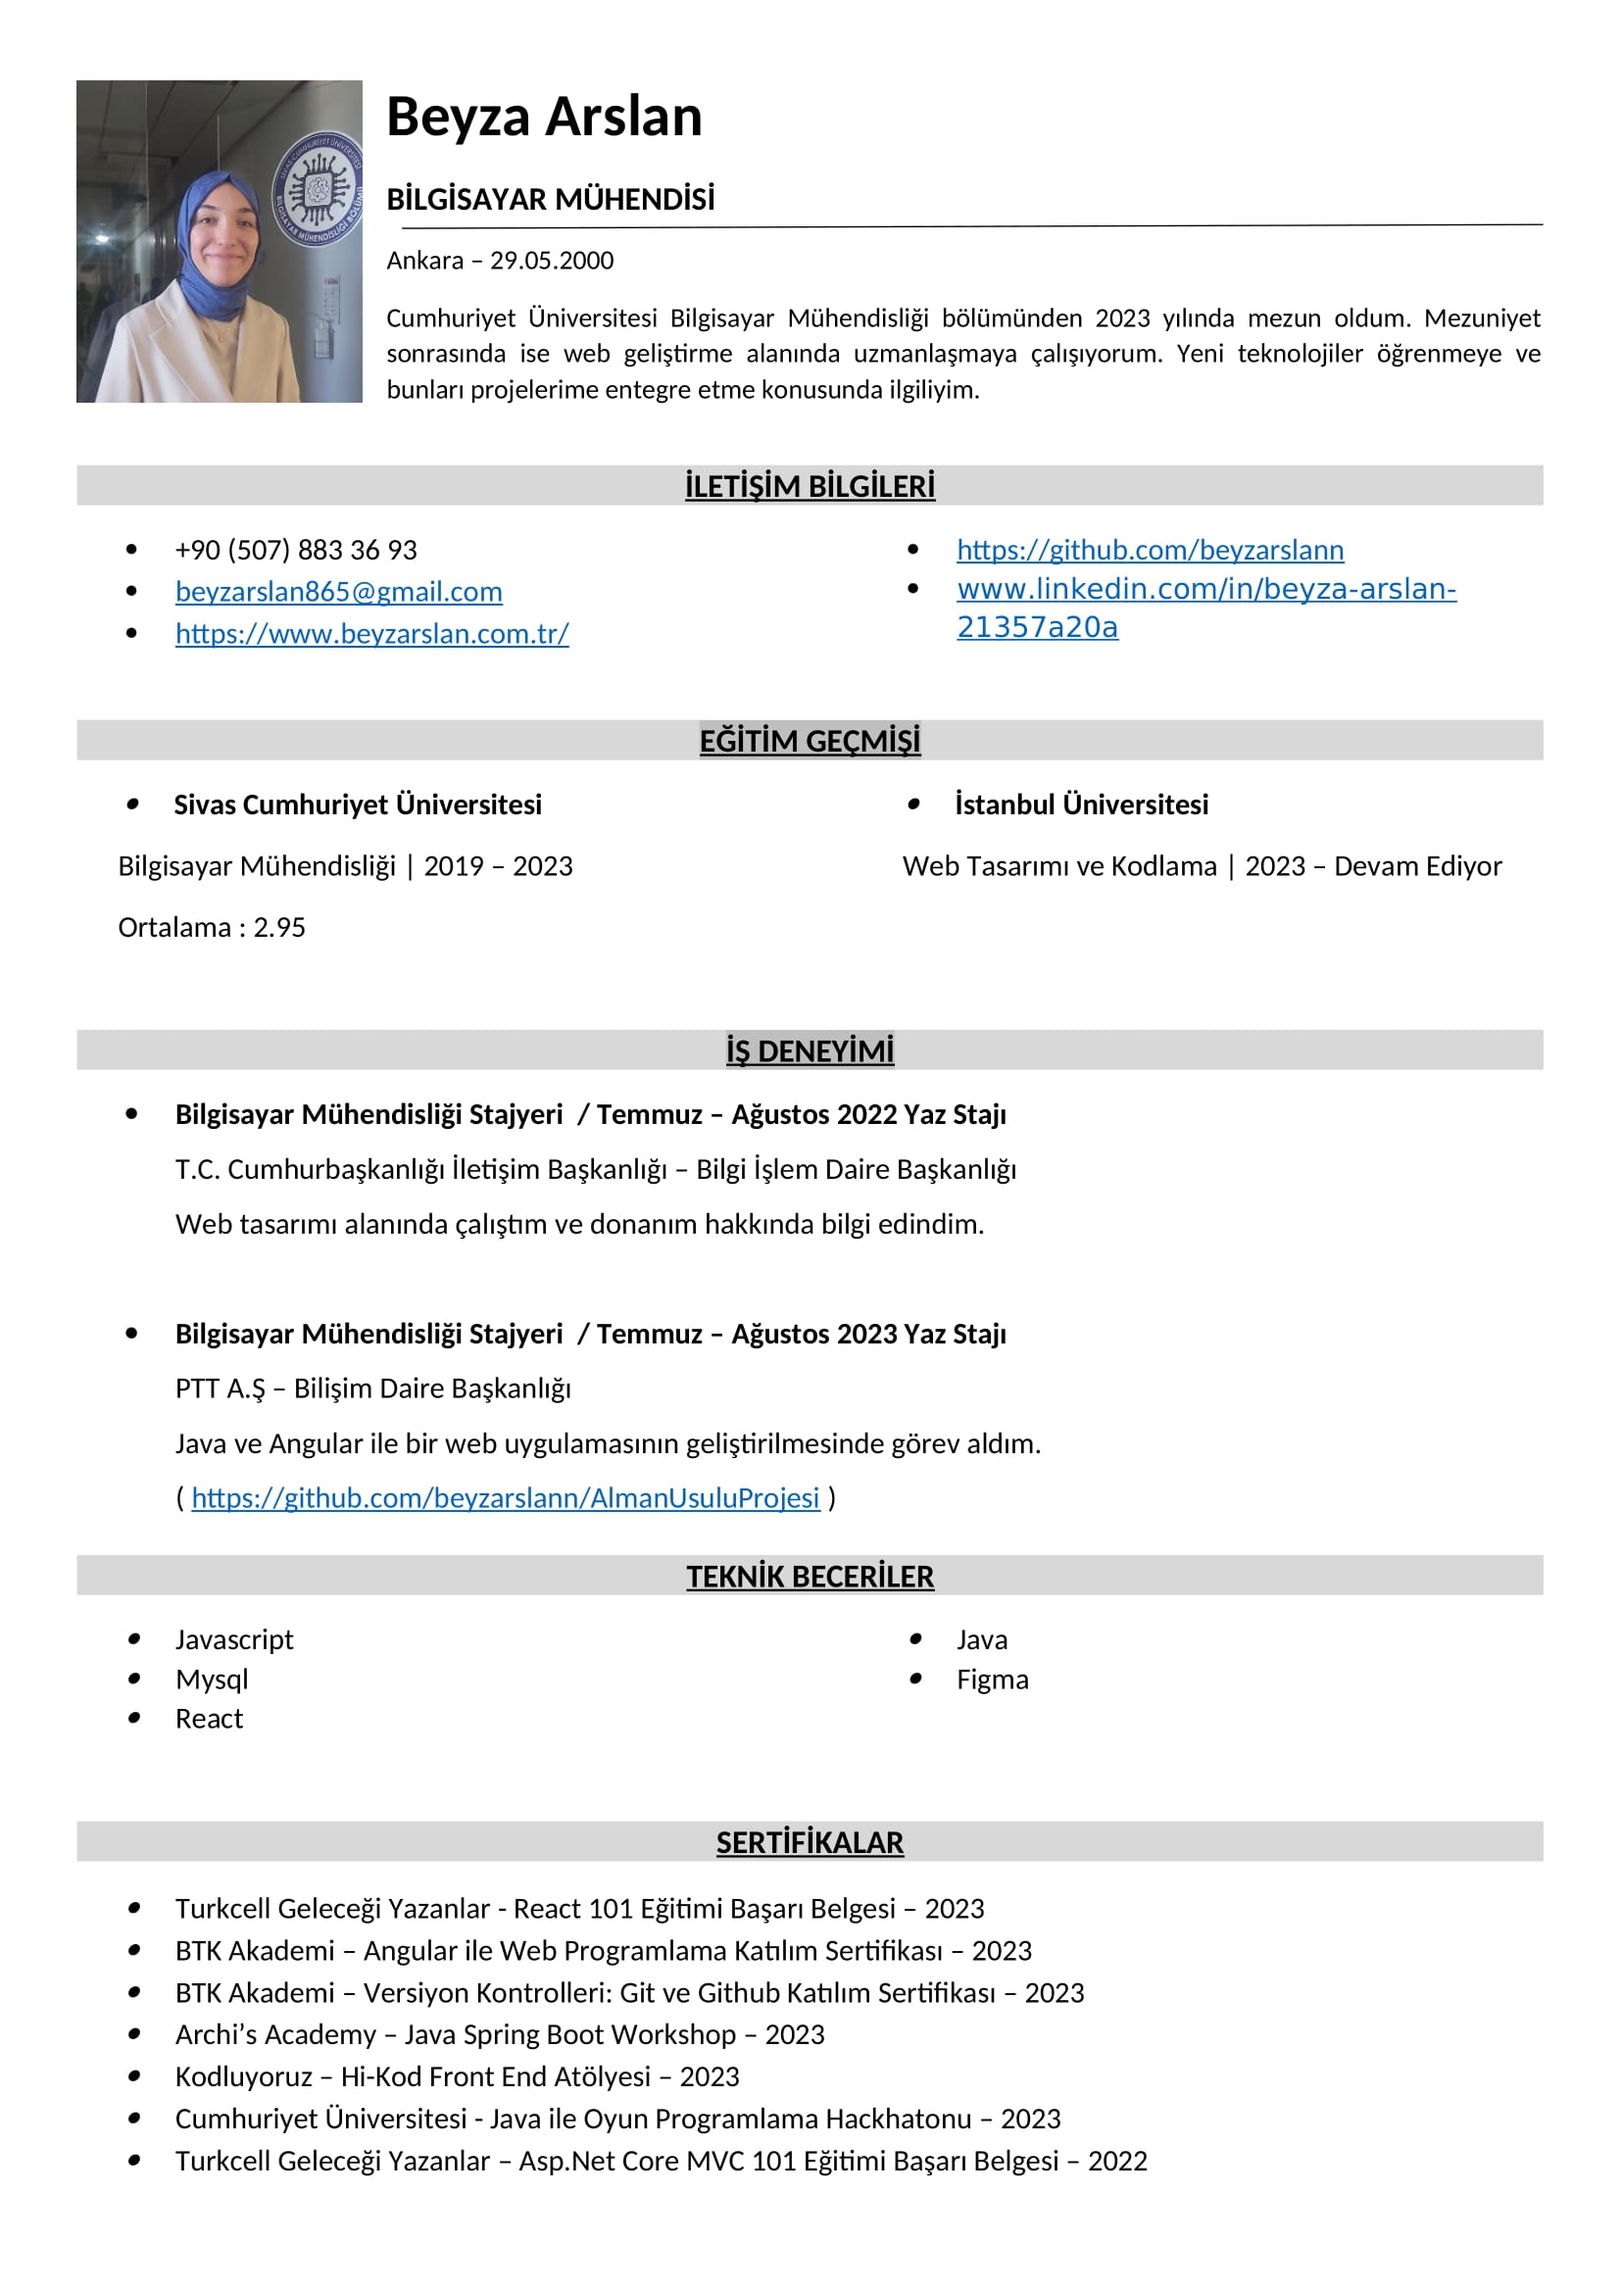
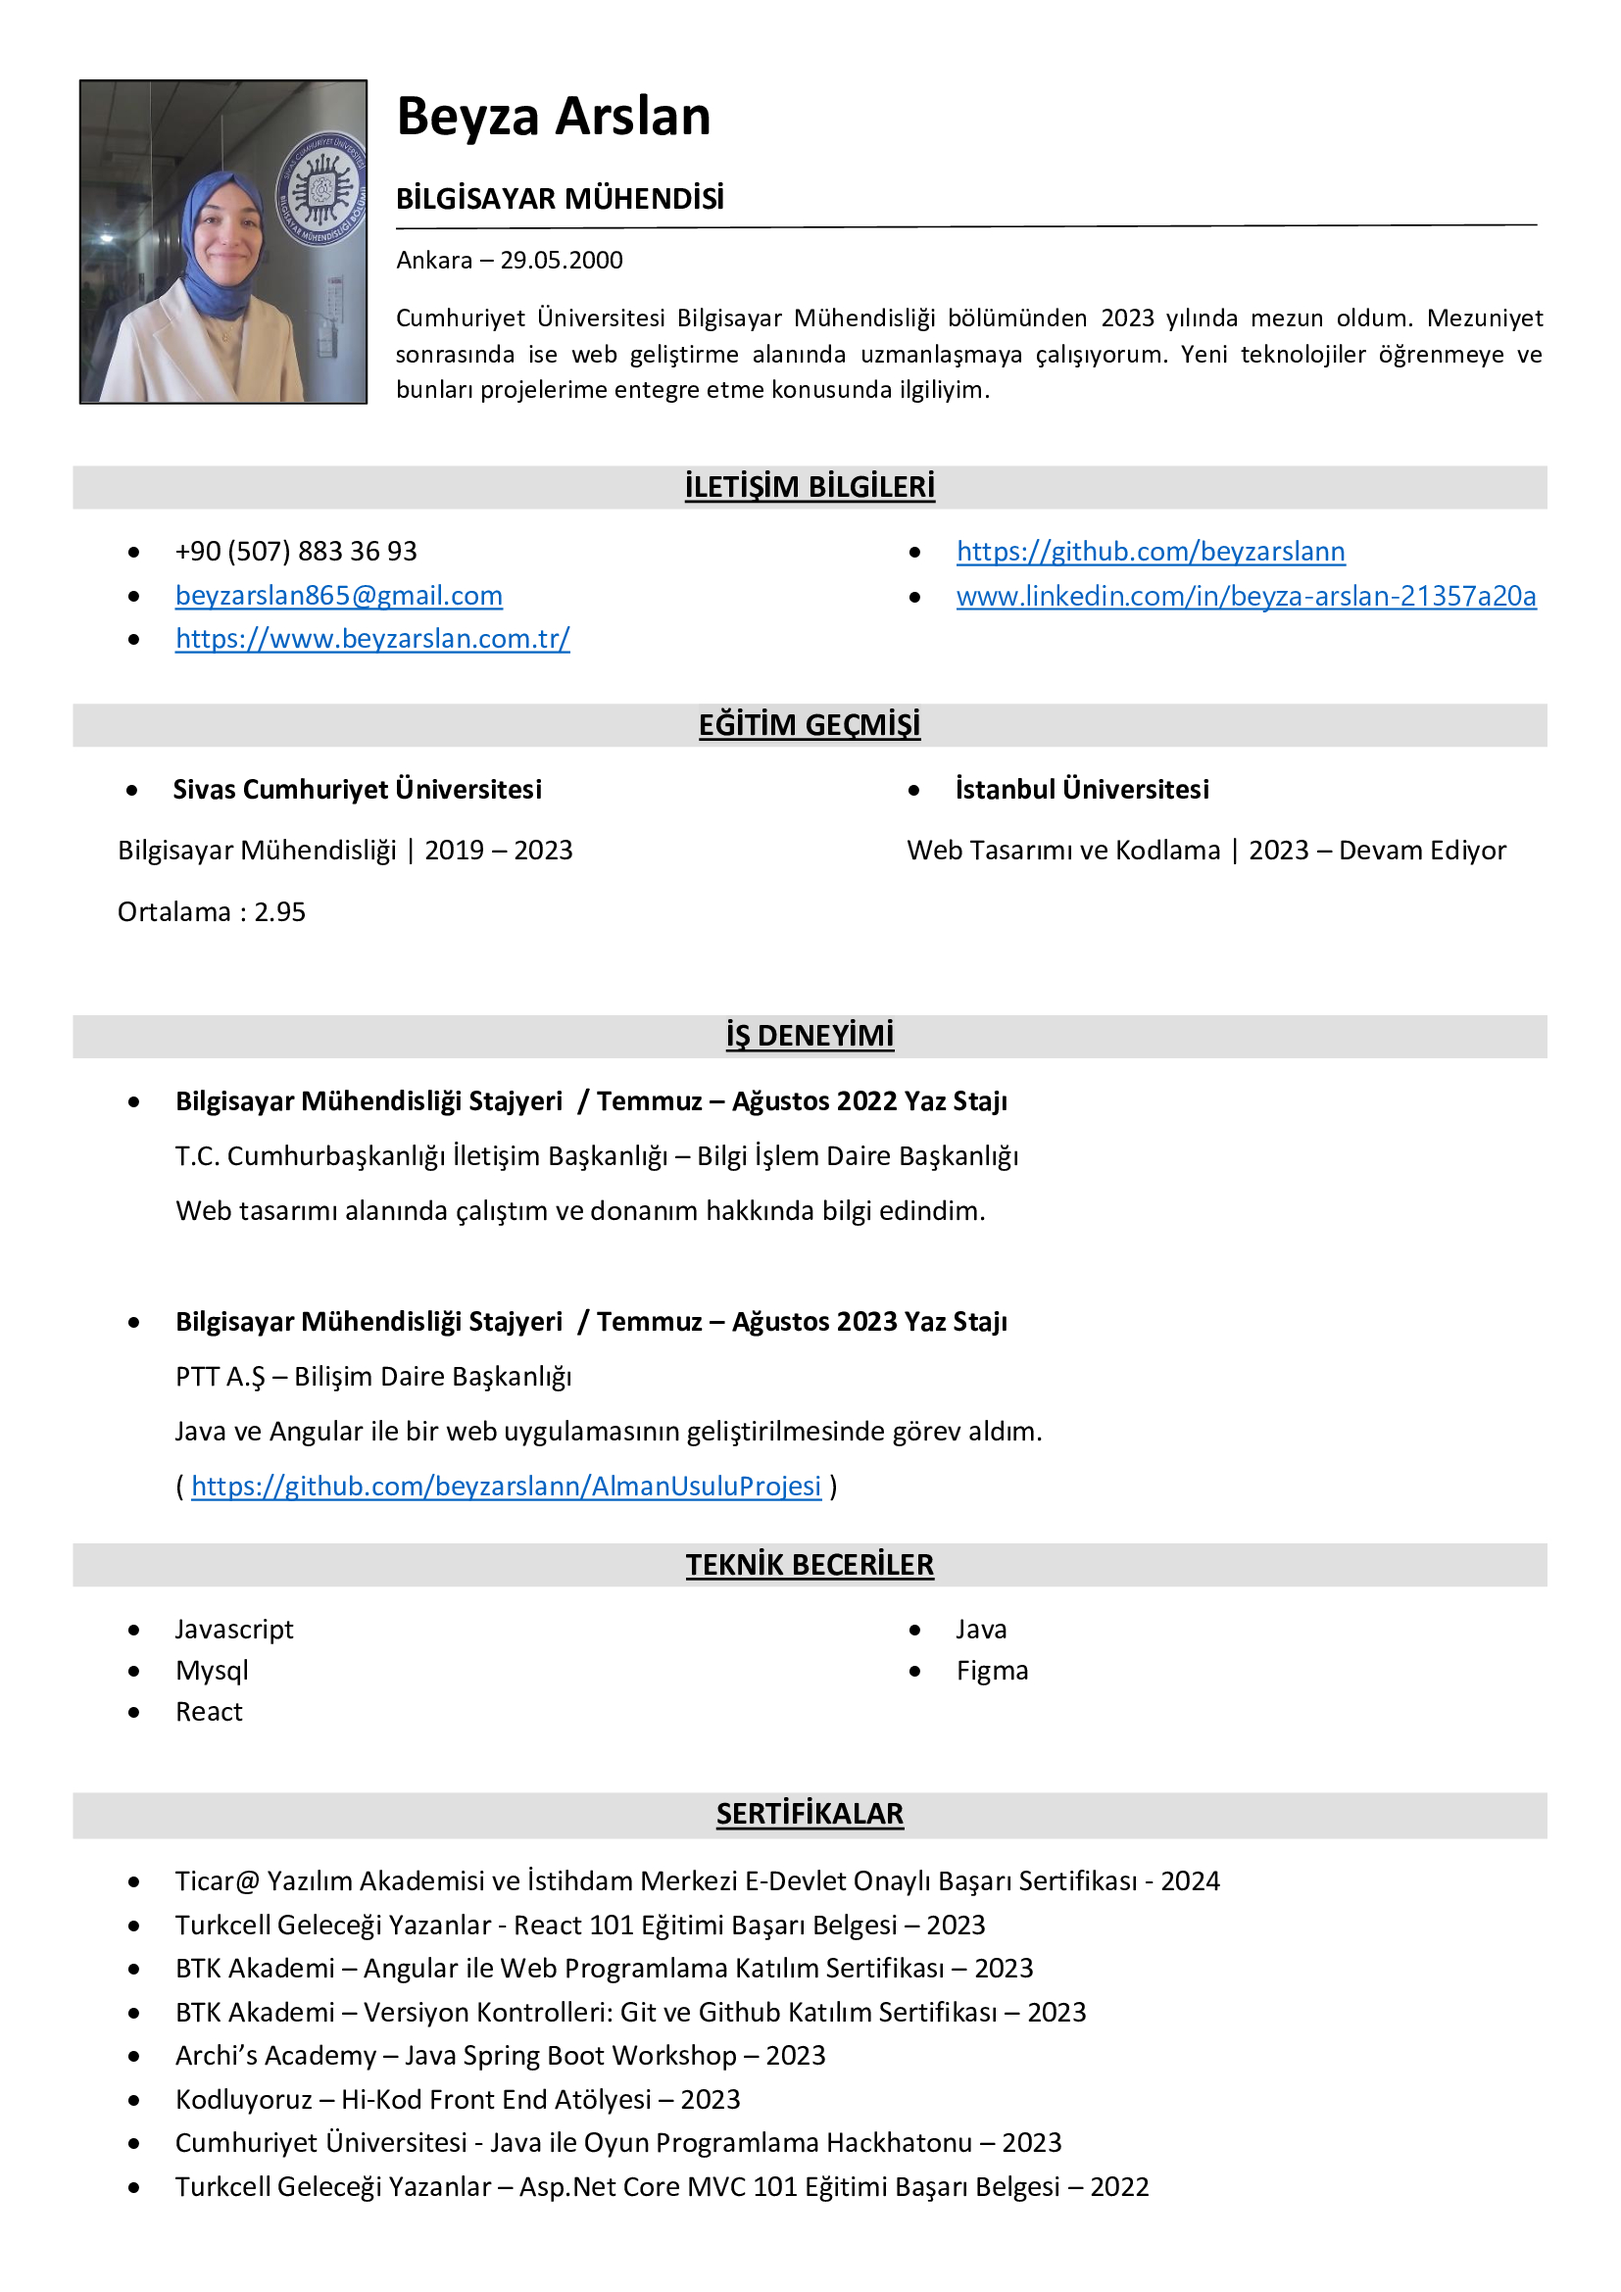
sertifika eklendi ve cv kısmı güncellendi.

diff --git a/src/app/page.tsx b/src/app/page.tsx
@@ -19,6 +19,12 @@ const BLUR_FADE_DELAY = 0.04;
 
 const certificates = [
   {
+    title:
+      "Ticar@ Yazılım Akademisi ve İstihdam Merkezi E-Devlet Onaylı Başarı Sertifikası",
+    date: "Aralık 2024",
+    link: "/ticaretakademi.jpg",
+  },
+  {
     title: "Turkcell Geleceği Yazanlar - React 101 eğitimi başarı belgesi",
     date: "Aralık 2023",
     link: "/react101.jpg",
